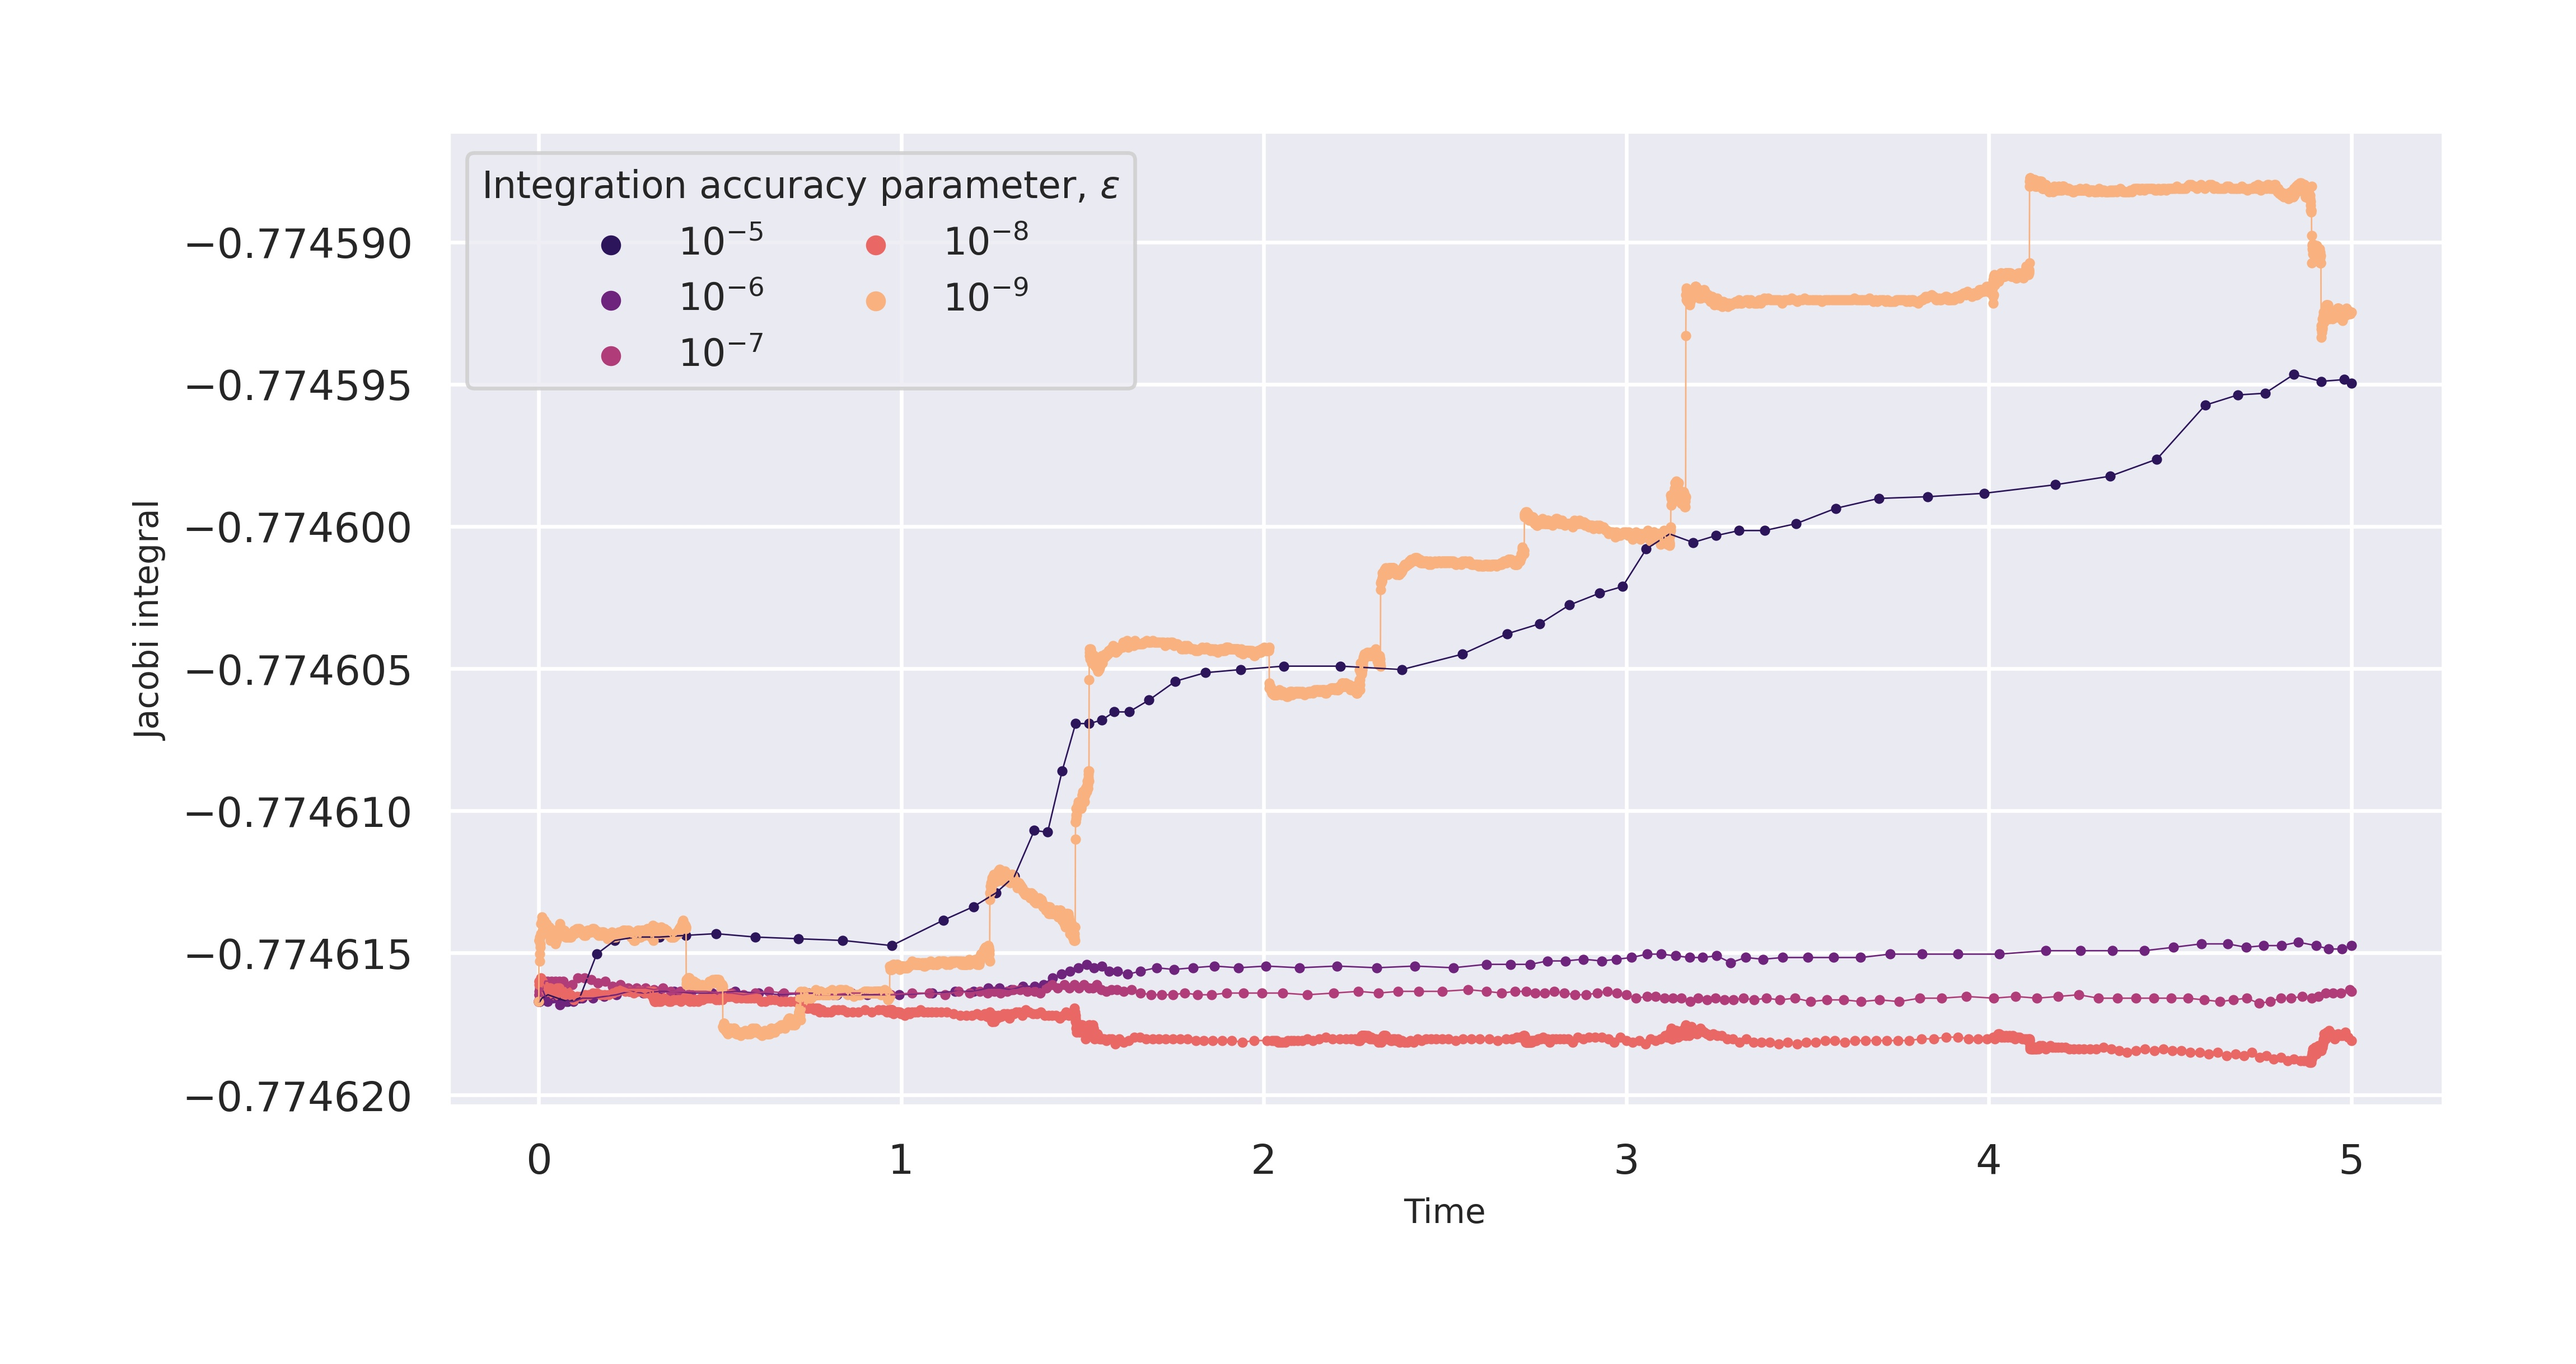
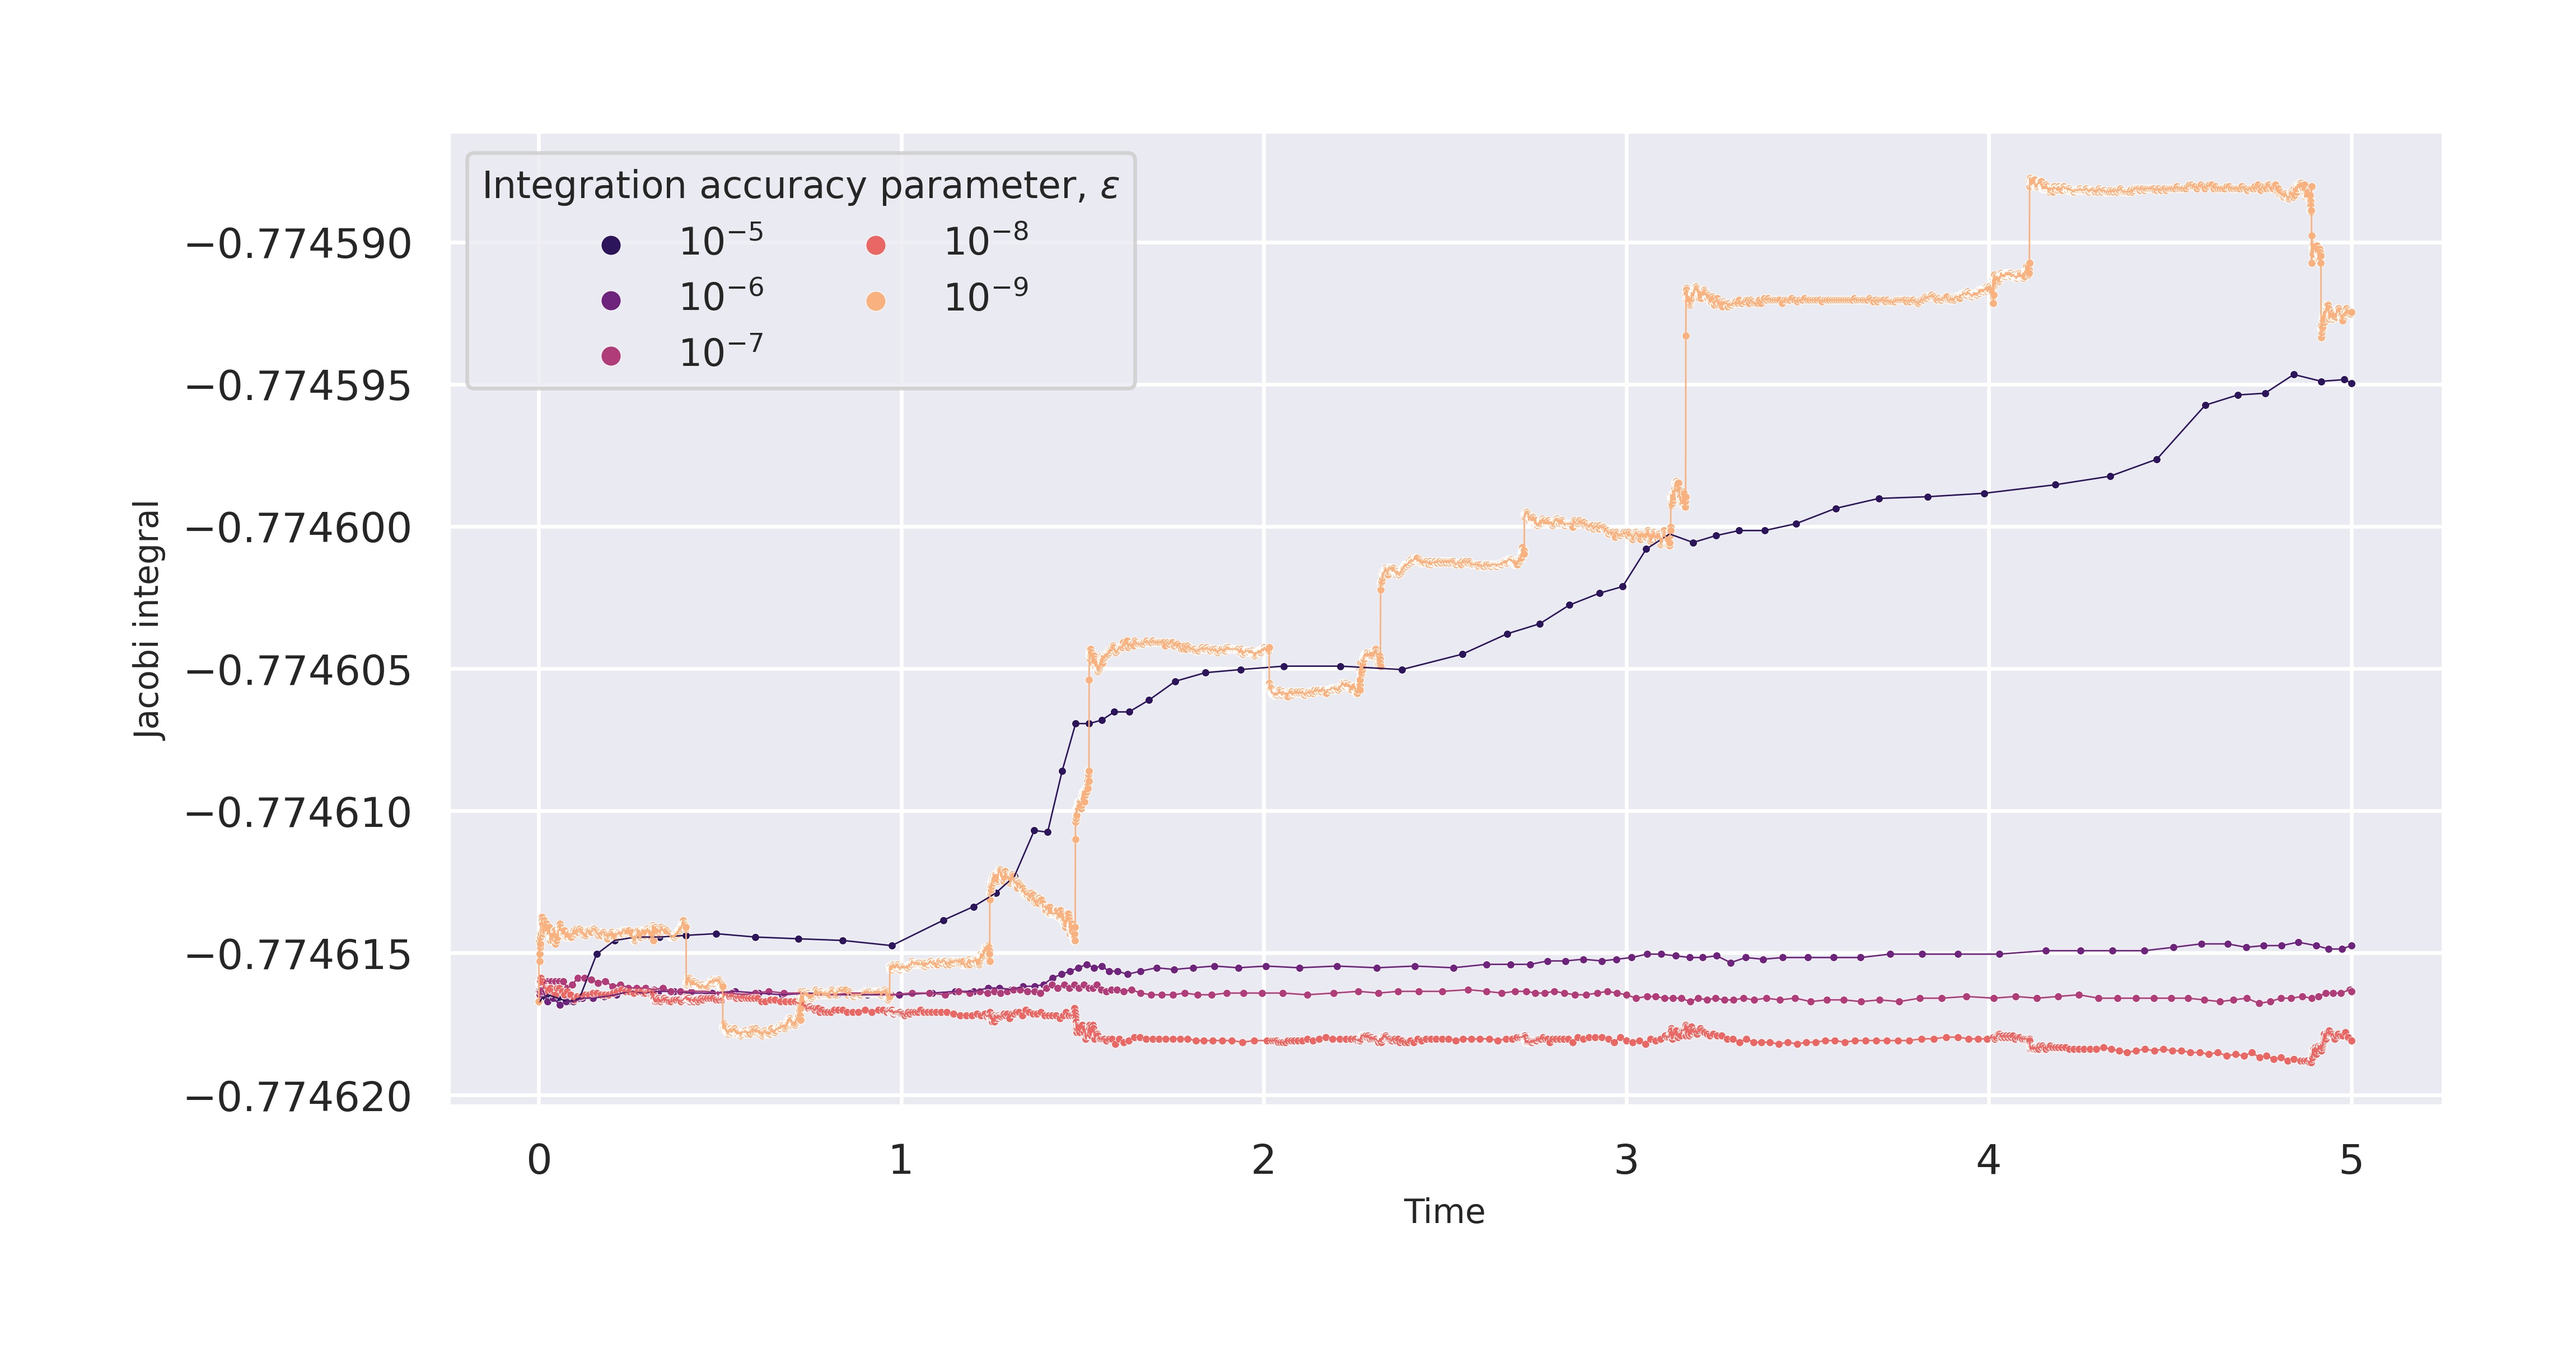
replaced matplotlib mapped function to seaborn functions wherever working well. generated new plots with plot numbers in grids.

diff --git a/task1/q5q6-velocity/q5_plotter.py b/task1/q5q6-velocity/q5_plotter.py
@@ -2,6 +2,7 @@ import pandas as pd
 import numpy as np 
 import matplotlib.pyplot as plt 
 import seaborn as sns
+from string import ascii_lowercase
 
 
 def get_df(fname_list):
@@ -24,10 +25,13 @@ def plot_trajectories_sep(df,fname_list):
 		aspect=2,
 		height=3)
 	g.map(plt.plot,'x','y', linewidth=0.5)
-	g.map(plt.scatter,'x','y', s=1.5)
-	g.set_titles(col_template='$v_x = ${col_name}')
+	g.map(sns.scatterplot,'x','y', s=10)
+	# g.set_titles(col_template='$v_x = ${col_name}')
+	axes=g.axes.flatten()
+	for i,fname in enumerate(fname_list):
+		axes[i].set_title('('+ascii_lowercase[i]+') $v_x =$ '+str(fname))
 	# plt.show()
-	plt.savefig('./plots/q6_sep.jpg',bbox_inches='tight',pad_inches=0.5,dpi=480)
+	plt.savefig('./plots/q5q6_sep.jpg',bbox_inches='tight',pad_inches=0.5,dpi=480)
 	return
 
 def plot_trajectories_combined(df, vx_values):
@@ -35,7 +39,7 @@ def plot_trajectories_combined(df, vx_values):
 	g = sns.FacetGrid(data=df, hue='vx_init', aspect=3.33, height=7)
 	# g.map_dataframe(sns.lineplot)
 	g.map(plt.plot,'x','y', linewidth=1.0)
-	g.map(plt.scatter,'x','y', s=4)
+	g.map(sns.scatterplot,'x','y', s=10)
 	handles, labels = plt.gca().get_legend_handles_labels()
 	plt.legend(title='$v_x$',
 		title_fontsize='medium',
@@ -45,15 +49,15 @@ def plot_trajectories_combined(df, vx_values):
 		loc=0,
 		labels=vx_values)
 	# plt.show()
-	plt.savefig('./plots/q6_combined.jpg',bbox_inches='tight',pad_inches=0.5,dpi=480)
+	plt.savefig('./plots/q5q6_combined.jpg',bbox_inches='tight',pad_inches=0.5,dpi=480)
 	return
 
 
 # -----------------------------------------------------
 
-# vx_values = [-1.64,-1.635,-1.63,-1.58,-1.15,-0.6,-0.524,-0.4] 		#q5q6 combined
+vx_values = [-1.64,-1.635,-1.63,-1.58,-1.15,-0.6,-0.524,-0.4] 		#q5q6 combined
 # vx_values = [-1.68,-1.64,-1.635]							#q5 only
-vx_values = [-1.63,-1.58,-1.15,-0.6,-0.524,-0.4] 			#q6 only
+# vx_values = [-1.63,-1.58,-1.15,-0.6,-0.524,-0.4] 			#q6 only
 fname_list = vx_values
 df = get_df(fname_list)
 # print(df)

diff --git a/task1/q3-epsilon/q3_plotter.py b/task1/q3-epsilon/q3_plotter.py
@@ -19,8 +19,8 @@ def plot_ejs(df):
 	sns.set()
 	palette = sns.color_palette('magma',5,desat=0.9)
 	g = sns.FacetGrid(data=df, hue='epsilon', aspect=2, height=4.5, palette=palette)
-	g.map(plt.plot,'t','e_j', linewidth=0.4)
-	g.map(plt.scatter,'t','e_j', s=3)
+	g.map(sns.lineplot,'t','e_j', linewidth=0.4)
+	g.map(sns.scatterplot,'t','e_j', s=4.5)
 	plt.xlabel('Time', fontsize=9)
 	plt.ylabel('Jacobi integral', fontsize=9)
 	handles, labels = plt.gca().get_legend_handles_labels()

diff --git a/task1/q4-trajectory/q4_plotter.py b/task1/q4-trajectory/q4_plotter.py
@@ -21,7 +21,7 @@ def plot_trajectories(df,x2_values):
 	g = sns.FacetGrid(data=df, hue='time_len', col='time_len', col_order=fname_list, aspect=2, height=4.5)
 	# g.map_dataframe(sns.lineplot)
 	g.map(plt.plot,'x','y', linewidth=0.7)
-	g.map(plt.scatter,'x','y', s=4.5)
+	g.map(sns.scatterplot,'x','y', s=10)
 	axes = g.axes.flatten()
 	for i,axis in enumerate(axes):
 		axis.set_title('Final time = '+str(float(x2_values[i])))
